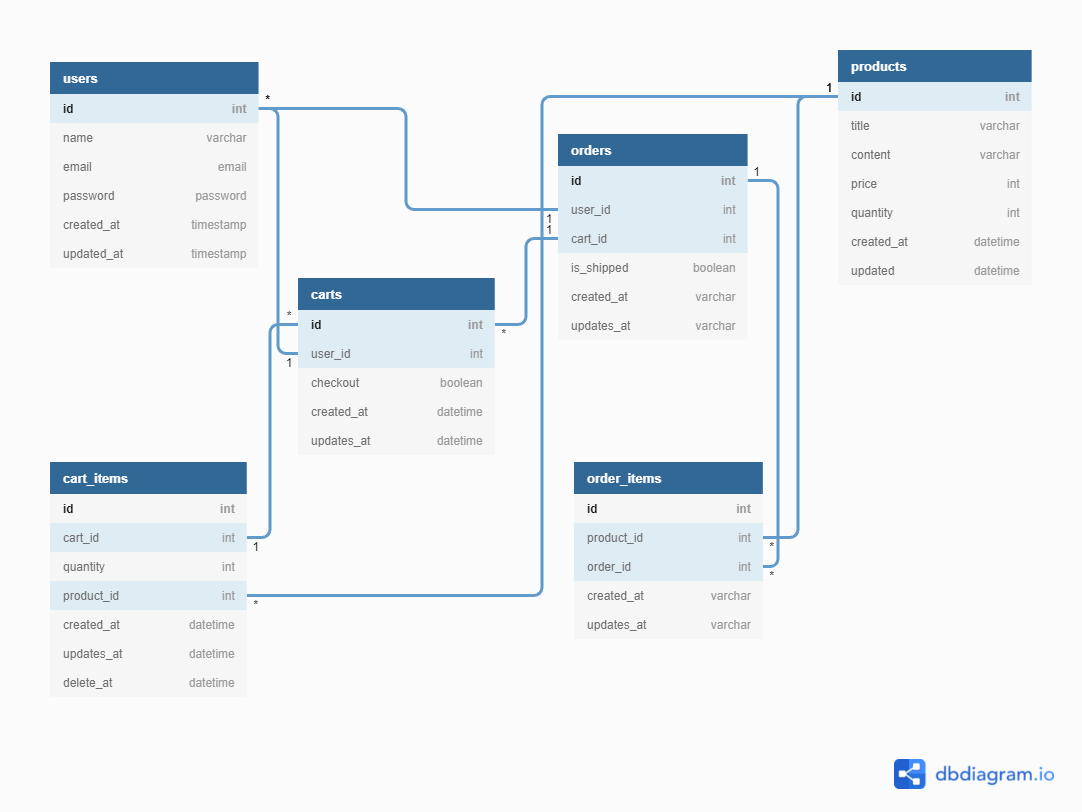
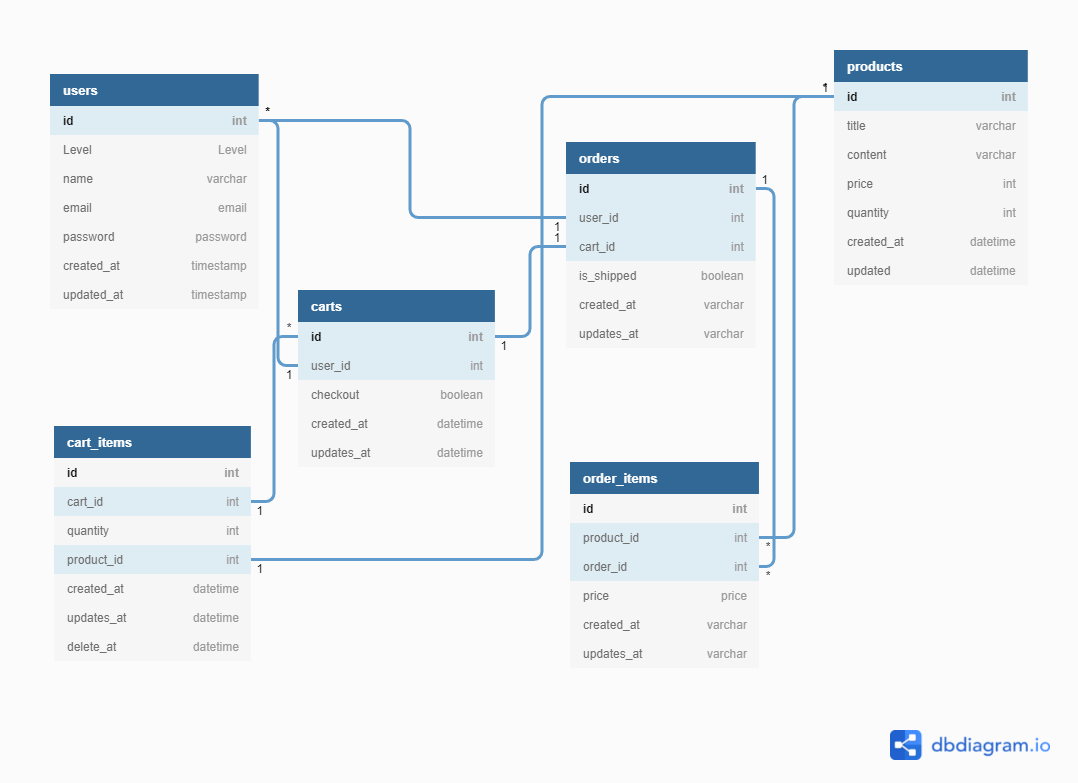
finish

diff --git a/app/Models/Cart.php b/app/Models/Cart.php
@@ -11,6 +11,8 @@ class Cart extends Model
 
     protected $guarded = [''];
 
+    private $rate = 1; // 費率
+
     public function cartItems()
     {
         return $this->hasMany(CartItem::class);
@@ -28,14 +30,27 @@ class Cart extends Model
 
     public function checkout()
     {
+        foreach($this->cartItems as $cartItem){
+            $product = $cartItem->product;
+            if(!$product->checkQuantity($cartItem->quantity)) { 
+                return $product->title.'數量不足'; 
+            }
+        }
+
         $order = $this->order()->create([
             'user_id' => $this->user_id
         ]);
+
+        if ($this->user->level == 2) { // 如果用戶等級為2
+            $this->rate = 0.8; // 費率變成0.8
+        }
+
         foreach($this->cartItems as $cartItem){
             $order->orderItems()->create([
                 'product_id' => $cartItem->product_id,
-                'price' => $cartItem->product->price
+                'price' => $cartItem->product->price * $this->rate
             ]);
+            $cartItem->product->update(['quantity' => $cartItem->product->quantity - $cartItem->quantity]);
         }
         $this->update(['checkouted' => true]);
         return $order;

diff --git a/app/Http/Controllers/CartItemsController.php b/app/Http/Controllers/CartItemsController.php
@@ -9,6 +9,7 @@ use Illuminate\Support\Facades\Validator;
 use App\Http\Requests\UpdateCartItems;
 use App\Models\Cart;
 use App\Models\CartItem;
+use App\Models\Product;
 use phpDocumentor\Reflection\PseudoTypes\True_;
 
 class CartItemsController extends Controller
@@ -54,8 +55,14 @@ class CartItemsController extends Controller
             return response($Validator->errors(), 400);
         }
         $validateData = $Validator->validate();
+
+        $product = Product::find($validateData['product_id']);
+        if(!$product->checkQuantity($validateData['quantity'])){
+            return response($product->title.'數量不足', 400);
+        }
+
         $cart = Cart::find($validateData['cart_id']);
-        $result = $cart->cartItems()->create(['product_id' => $validateData['product_id'],
+        $result = $cart->cartItems()->create(['product_id' => $product->id,
                                             'quantity' => $validateData['quantity']]);
 
         return response()->json($result);

diff --git a/database/migrations/2021_07_21_094646_add_checkout_feature_colums.php b/database/migrations/2021_07_21_094646_add_checkout_feature_colums.php
@@ -1,0 +1,40 @@
+<?php
+
+use Illuminate\Database\Migrations\Migration;
+use Illuminate\Database\Schema\Blueprint;
+use Illuminate\Support\Facades\Schema;
+
+class AddCheckoutFeatureColums extends Migration
+{
+    /**
+     * Run the migrations.
+     *
+     * @return void
+     */
+    public function up()
+    {
+        Schema::table('order_items', function (Blueprint $table) {
+            $table->integer('price')->after('order_id');
+        });
+
+        Schema::table('users', function (Blueprint $table) {
+            $table->integer('level')->default(1)->after('id');
+        });
+    }
+
+    /**
+     * Reverse the migrations.
+     *
+     * @return void
+     */
+    public function down()
+    {
+        Schema::table('order_items', function (Blueprint $table) {
+            $table->dropColumn('price');
+        });
+
+        Schema::table('users', function (Blueprint $table) {
+            $table->dropColumn('level');
+        });
+    }
+}

diff --git a/app/Models/Product.php b/app/Models/Product.php
@@ -9,7 +9,7 @@ class Product extends Model
 {
     use HasFactory;
 
-    protected $guarded = [];
+    protected $guarded = [''];
 
     public function cartItems()
     {
@@ -19,5 +19,12 @@ class Product extends Model
     public function orderItems()
     {
         return $this->hasMany(OrderItem::class);
+    }
+
+    public function checkQuantity($quantity){
+        if ($this->quantity < $quantity) {  // 輸入數量如果少於商品數量
+            return false;
+        }
+        return true;
     }
 }

diff --git a/app/Http/Controllers/CartController.php b/app/Http/Controllers/CartController.php
@@ -26,6 +26,7 @@ class CartController extends Controller
         // $cart['items'] = collect($cartItems);
         $user = auth()->user();
         $cart = Cart::with(['cartItems'])->where('user_id', $user->id)
+                                         ->where('checkouted', false) // 只抓取未結帳
                                          ->firstOrCreate(['user_id'=> $user->id]);
 
         return response($cart);

diff --git a/app/Models/CartItem.php b/app/Models/CartItem.php
@@ -9,7 +9,7 @@ use Illuminate\Database\Eloquent\SoftDeletes;
 class CartItem extends Model
 {
     use HasFactory;
-    use SoftDeletes;
+    use SoftDeletes;  // 使用軟刪除特性
 
     protected $filable = []; // 白名單(只能更改)
     protected $guarded = []; // 黑名單(不能更改)

diff --git a/README.md b/README.md
@@ -13,14 +13,18 @@
 
 #### 系統功能:
 
-1. 需使用 Eloquent Model 完成功能
+1. 使用 Eloquent Model 完成功能
 
-2. 需使用軟刪除特性
+2. 有使用軟刪除特性
 
-3. 需有資料 Validator
+3. 有資料 Validator
 
-4. 需有資料預產生器 Seeder
+4. 有資料預產生器 Seeder
 
 #### SQL架構
 
 ![SQL Scheme](e-commerce.png)
+
+#### Postman作品DEMO
+
+[Demo Link](https://youtu.be/etI1WYAiy9A) 
